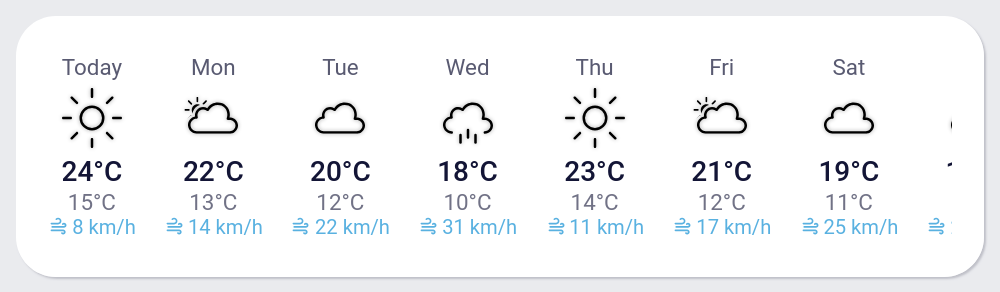
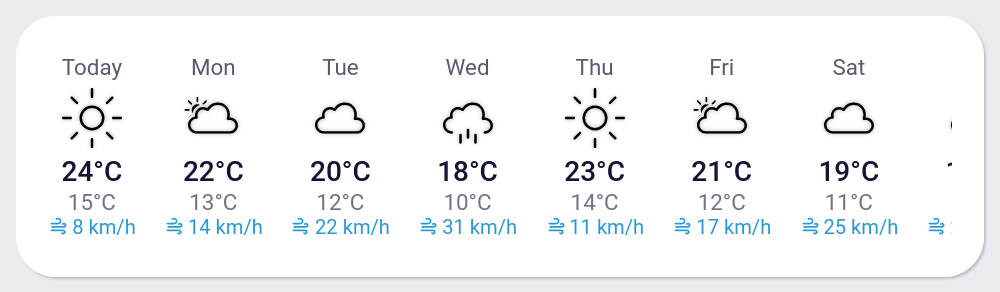
fix(forecast-strip): make the attribute row easier to read

diff --git a/src/styles.ts b/src/styles.ts
@@ -209,7 +209,7 @@ export default css`
 
   clock-weather-card-forecast-strip-item .attribute {
     font-size: 0.72em;
-    opacity: 0.65;
+    opacity: 0.85;
     color: var(--info-color, #4a90d9);
     line-height: 1;
     min-height: 1em;

diff --git a/README.md b/README.md
@@ -50,6 +50,13 @@ Edit your dashboard, click **Add card** and pick **Clock Weather Card**. Every o
 
 ### Minimal configuration
 
+```yaml
+type: custom:clock-weather-card
+entity: weather.home
+```
+
+The animation at the top of this page shows this configuration, with a lighter precipitation color for its green theme:
+
 <!-- preview: hero
 theme: { repo: basnijholt/lovelace-ios-themes, version: v3.0.3, name: ios-dark-mode-dark-green }
 dark: true
@@ -59,9 +66,10 @@ animated: true
 ```yaml
 type: custom:clock-weather-card
 entity: weather.home
+sections:
+  forecast_strip:
+    attribute_color: "#BBDEFB"
 ```
-
-The animation at the top of this page shows this configuration.
 
 ### Examples
 
